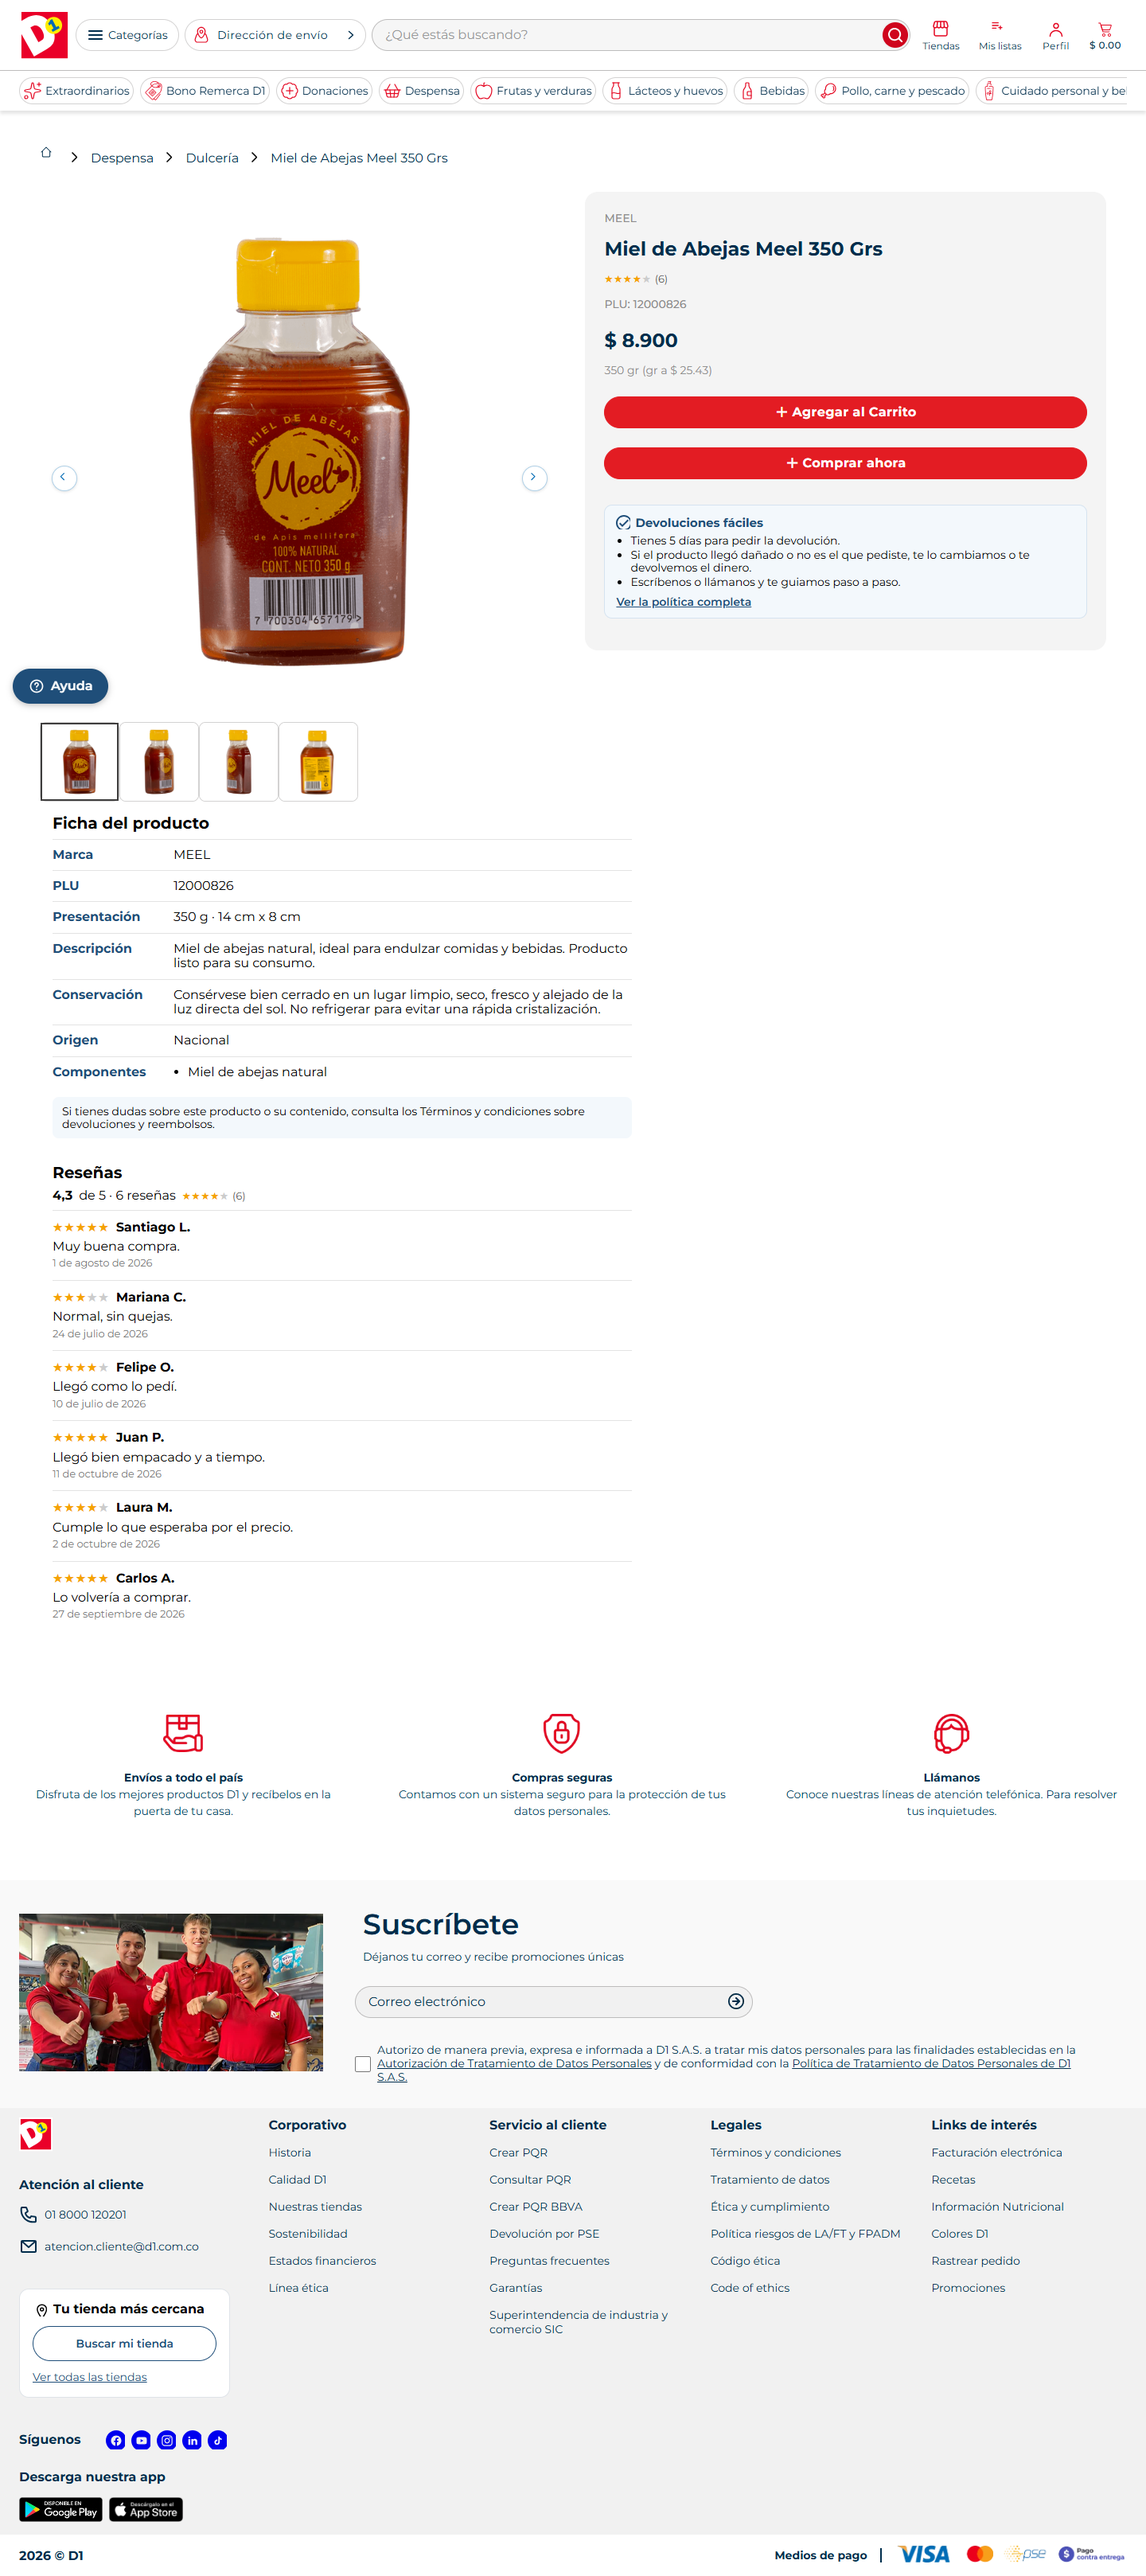
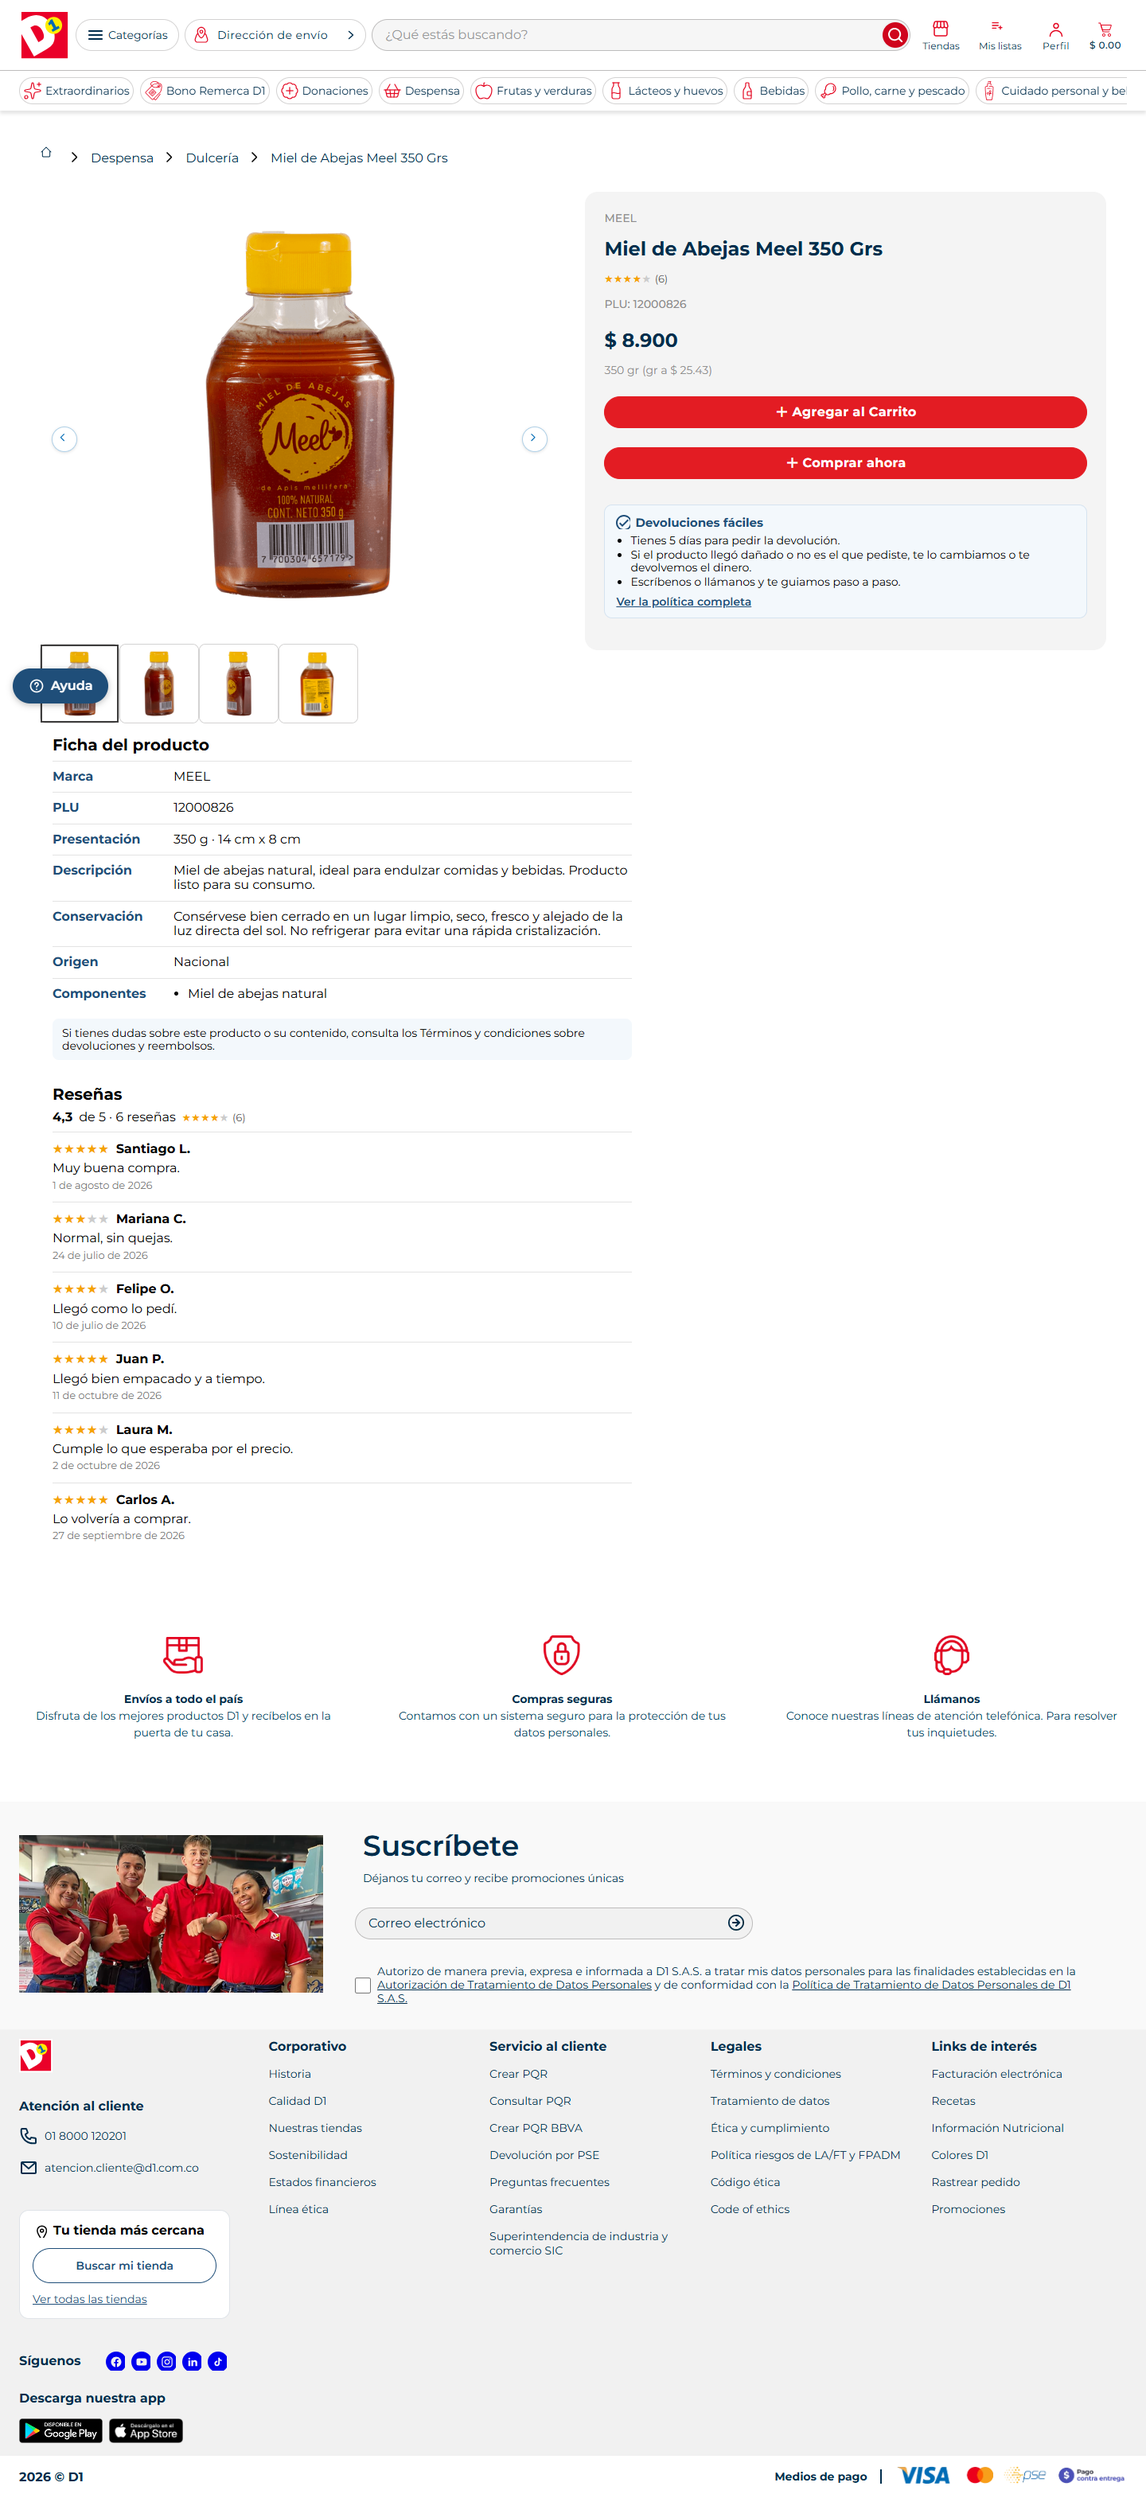
Detalle de producto: foto principal en tamano grande y a todo el ancho

diff --git a/src/pages/ProductPage.jsx b/src/pages/ProductPage.jsx
@@ -10,7 +10,7 @@ import { kitDetails } from '../data/kitDetails'
 import { productDetails } from '../data/productDetails'
 import { shelves } from '../data/shelves'
 import { categories } from '../data/categories'
-import { asset } from '../utils/asset'
+import { asset, imagenGrande } from '../utils/asset'
 import { productPath } from '../utils/links'
 
 const P = 'd1tiendas-commons-components-1-x-'
@@ -29,7 +29,7 @@ function findProduct(path) {
         brand: found.brand,
         price: found.price,
         href: path,
-        images: [asset(found.image)],
+        images: [imagenGrande(asset(found.image))],
         breadcrumb: [],
       }
     }

diff --git a/src/styles/galeria.css b/src/styles/galeria.css
@@ -1,0 +1,16 @@
+/* Detalle de producto: la foto principal ocupa todo el ancho de su columna. */
+.vtex-store-components-3-x-productImagesContainer .vtex-store-components-3-x-productImage {
+  width: 100%;
+}
+.vtex-store-components-3-x-productImagesContainer .vtex-store-components-3-x-productImageTag--main {
+  display: block;
+  width: 100%;
+  height: auto;
+  max-height: 560px;
+  object-fit: contain;
+}
+@media (max-width: 768px) {
+  .vtex-store-components-3-x-productImagesContainer .vtex-store-components-3-x-productImageTag--main {
+    max-height: 420px;
+  }
+}

diff --git a/src/utils/asset.js b/src/utils/asset.js
@@ -1,2 +1,6 @@
 // Las rutas locales ("img/...") se resuelven contra la base de Vite; las URLs remotas pasan igual.
 export const asset = (src) => (/^https?:/.test(src) ? src : `${import.meta.env.BASE_URL}${src}`)
+
+// Las tarjetas traen la imagen en 197×197; el detalle del producto pide la versión grande (800×800) del mismo archivo.
+export const imagenGrande = (src) =>
+  /vtexassets/.test(src) ? src.replace('-197-197', '-800-800').replace('width=197&height=197', 'width=800&height=800') : src

diff --git a/src/components/product/ProductGallery.jsx b/src/components/product/ProductGallery.jsx
@@ -1,5 +1,6 @@
 import { useState } from 'react'
 import Icon from '../ui/Icon'
+import '../../styles/galeria.css'
 
 const V = 'vtex-store-components-3-x-'
 

diff --git a/docs/CHANGELOG.md b/docs/CHANGELOG.md
@@ -126,3 +126,5 @@ Ajustes antes de las capturas finales. No hay modo captura ni interruptores: la 
 | 6. Tipo de envío | Se eliminó «Selecciona el tipo de envío» del home y los botones de la franja superior, junto con el código que solo usaban ellos (`ShippingOptions`, `ChangeShippingOption`, `shippingOptions`). «Dirección de envío» no se tocó. | `Header/index.jsx`, `Home.jsx`, `data/navigation.js` |
 
 **Capturas nuevas:** `20-inicio-barra-inferior`, `21-panel-busqueda-defecto`, `22-panel-busqueda-vivo`, `23-encabezado-sin-envios` (en 1440 y 390 px).
+
+- **Detalle de producto:** la foto principal usa la versión grande (800×800) y ocupa todo el ancho de su columna; antes, los productos que venían de los estantes mostraban la miniatura de 197 px. Archivos: `src/utils/asset.js`, `src/pages/ProductPage.jsx`, `src/styles/galeria.css`.
